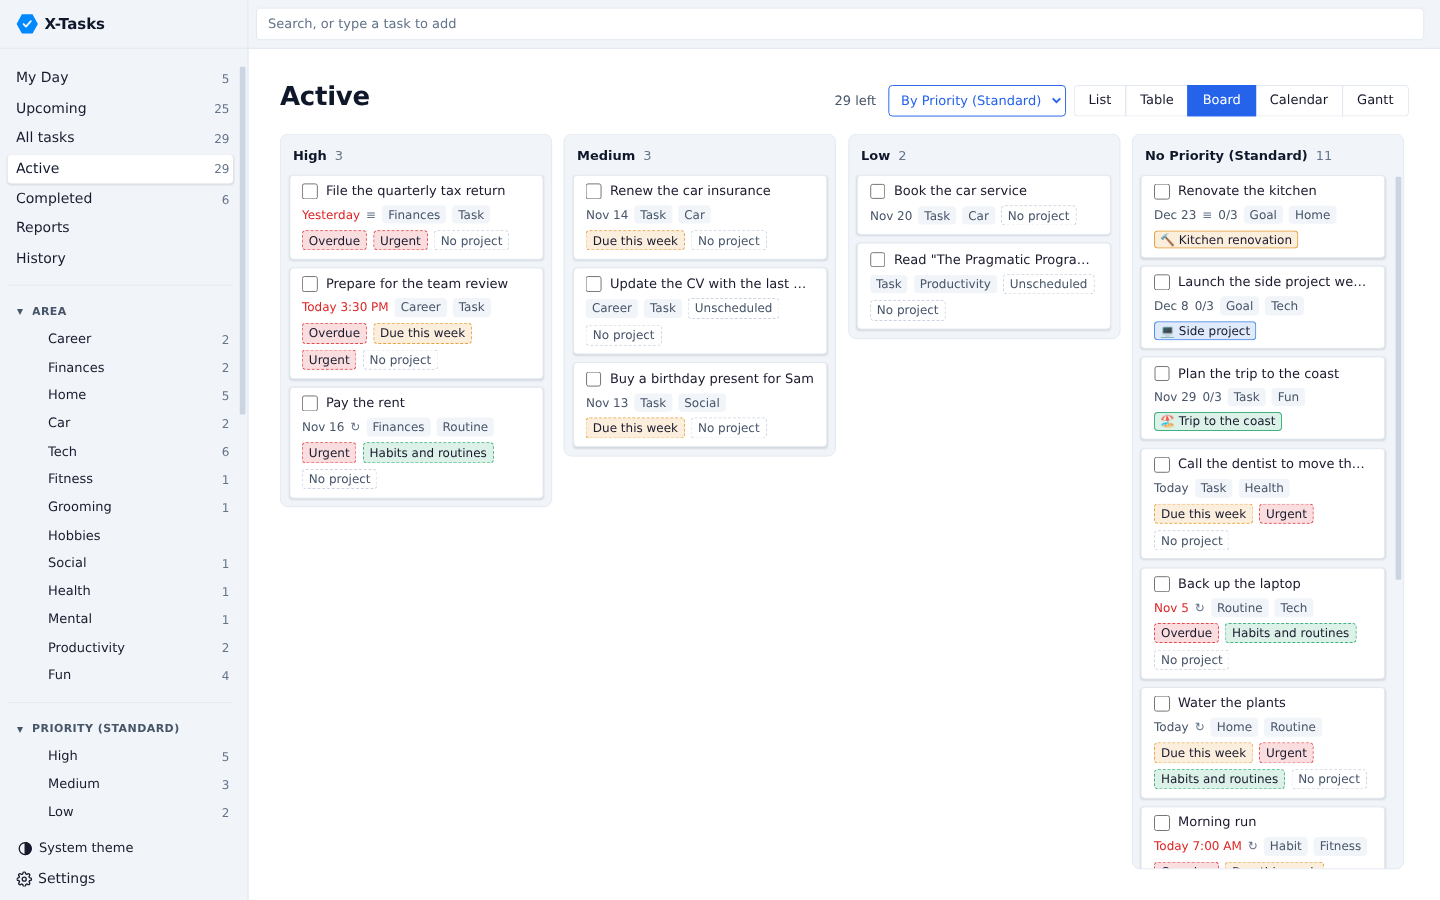
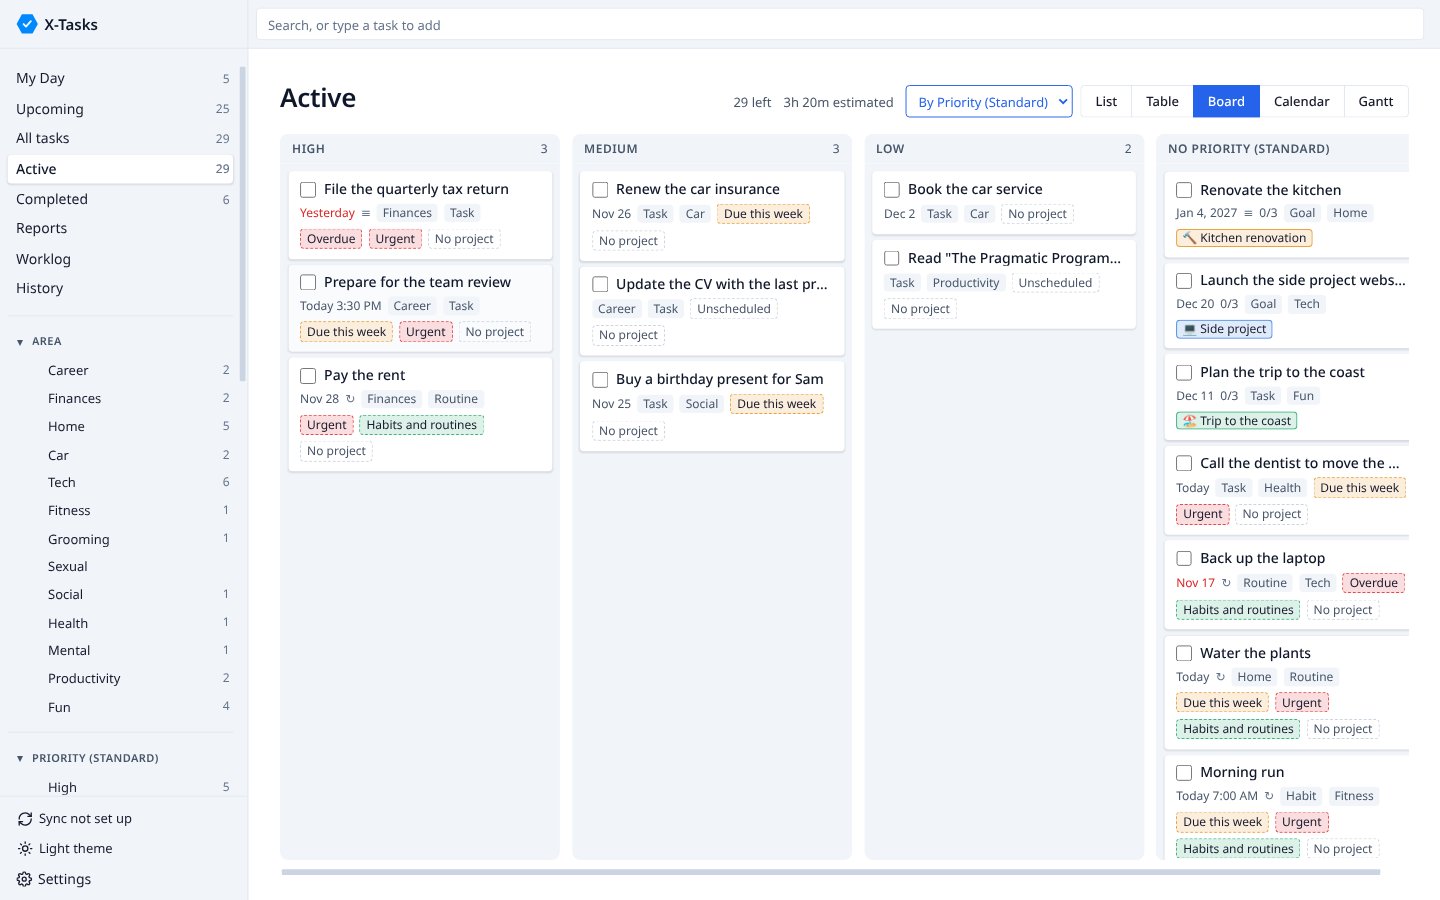
build: update X-Libs to 0.68 and Halon to 0.30
Cards move between columns on phones too, by dragging or with Alt and
the arrow keys. Halon's board keeps no padding and drops a lone card
title's gap itself, so X-Tasks' own rules for both shrink.

Assisted-by: Claude Code

diff --git a/tests/app.test.tsx b/tests/app.test.tsx
@@ -160,6 +160,58 @@ describe('the board layout', () => {
 
     expect(tasks_api.tag_task).toHaveBeenCalledWith('milk', 'work')
   })
+
+  describe('on a phone-sized page', () => {
+    const phone_query = (query: string) =>
+      ({ matches: query.includes('max-width'), media: query, onchange: null, addEventListener: () => {}, removeEventListener: () => {}, addListener: () => {}, removeListener: () => {}, dispatchEvent: () => false }) as MediaQueryList
+    const phone_board = () => screen.getByRole('region', { name: 'Board' })
+    const phone_card = (title: string) => within(phone_board()).getByText(title).closest('li')!
+    const phone_column = (name: string) => within(phone_board()).getByRole('region', { name })
+
+    afterEach(() => vi.restoreAllMocks())
+
+    async function show_phone_board(settings: Parameters<typeof show_app>[0] = {}) {
+      vi.spyOn(window, 'matchMedia').mockImplementation(phone_query)
+      return show_app({ task_layout: 'board', ...settings })
+    }
+
+    async function drag_phone_card(title: string): Promise<void> {
+      fireEvent.dragStart(phone_card(title), { dataTransfer: { setData: () => {} } })
+      await act(() => new Promise((resolve) => setTimeout(resolve)))
+    }
+
+    test('stacks the columns and moves a card dragged onto another one', async () => {
+      const { tasks_api } = await show_phone_board()
+
+      expect(phone_card('Buy milk').draggable).toBe(true)
+      await drag_phone_card('Buy milk')
+      fireEvent.dragOver(phone_column('Done'))
+      expect(phone_column('Done').className).toContain('drop-inside')
+      fireEvent.drop(phone_column('Done'))
+
+      expect(tasks_api.set_task_done).toHaveBeenCalledWith('milk', true, expect.any(String), expect.anything())
+    })
+
+    test('moves a card to the next column with Alt and the down arrow', async () => {
+      const { tasks_api } = await show_phone_board({ task_grouping: 'group:context' })
+
+      fireEvent.keyDown(phone_card('Buy milk'), { key: 'ArrowDown', altKey: true })
+
+      expect(tasks_api.untag_task).toHaveBeenCalledWith('milk', 'home')
+      expect(tasks_api.tag_task).toHaveBeenCalledWith('milk', 'work')
+    })
+
+    test('tags a card dropped on a tag in the sidebar', async () => {
+      const { tasks_api } = await show_phone_board()
+
+      await drag_phone_card('Buy milk')
+      const work_row = within(screen.getByRole('tree', { name: 'Tags' })).getByText('Work').closest('.tree-row')!
+      fireEvent.dragOver(work_row, { dataTransfer: {} })
+      fireEvent.drop(work_row, { dataTransfer: {} })
+
+      expect(tasks_api.tag_task).toHaveBeenCalledWith('milk', 'work')
+    })
+  })
 })
 
 // ============================================================================

diff --git a/src/web/app.css b/src/web/app.css
@@ -263,10 +263,9 @@ body.contained .main-pane:has(> .task_pane > :is(.task_list, .table-wrap, .board
 /* Board                                                                      */
 /* ========================================================================== */
 
-/* Halon draws the board; X-Tasks lines it up with the header and puts each card's checkbox beside its title. */
-.task_pane > .board { padding: 0 0 var(--space-4); }
+/* Halon draws the board; X-Tasks keeps room under it for the scrollbar and puts each card's checkbox beside its title. */
+.task_pane > .board { padding-bottom: var(--space-4); }
 .task_card_title { display: flex; align-items: flex-start; gap: var(--space-4); }
-.task_card_title:has(+ .board-card-meta:empty) { margin-bottom: 0; }
 .task_card_title input { flex: none; margin: 0; }
 .subtask_count { color: var(--text-secondary); font-size: var(--text-caption); }
 

diff --git a/CHANGELOG.md b/CHANGELOG.md
@@ -53,8 +53,8 @@ AppImage and Flatpak are released together, as `v1.0.<build>` on every push to `
 ### Changed
 
 - Draw the board with X-Libs' shared board: arrow keys walk the cards, Enter opens one, Alt and an arrow moves it,
-  a tinted row setting tints the cards too, and phones list the columns one under another
-- Draw the shared look from Halon 0.29 and X-Libs 0.67
+  a tinted row setting tints the cards too, and phones list the columns one under another, cards still moving between them
+- Draw the shared look from Halon 0.30 and X-Libs 0.68
 - Date ranges are rules picked from lists: before, after or between points such as now, start of today,
   start of tomorrow or end of this week, with a choice of which ends count
 - Word a relationship's waiting choice as which task depends on the other
